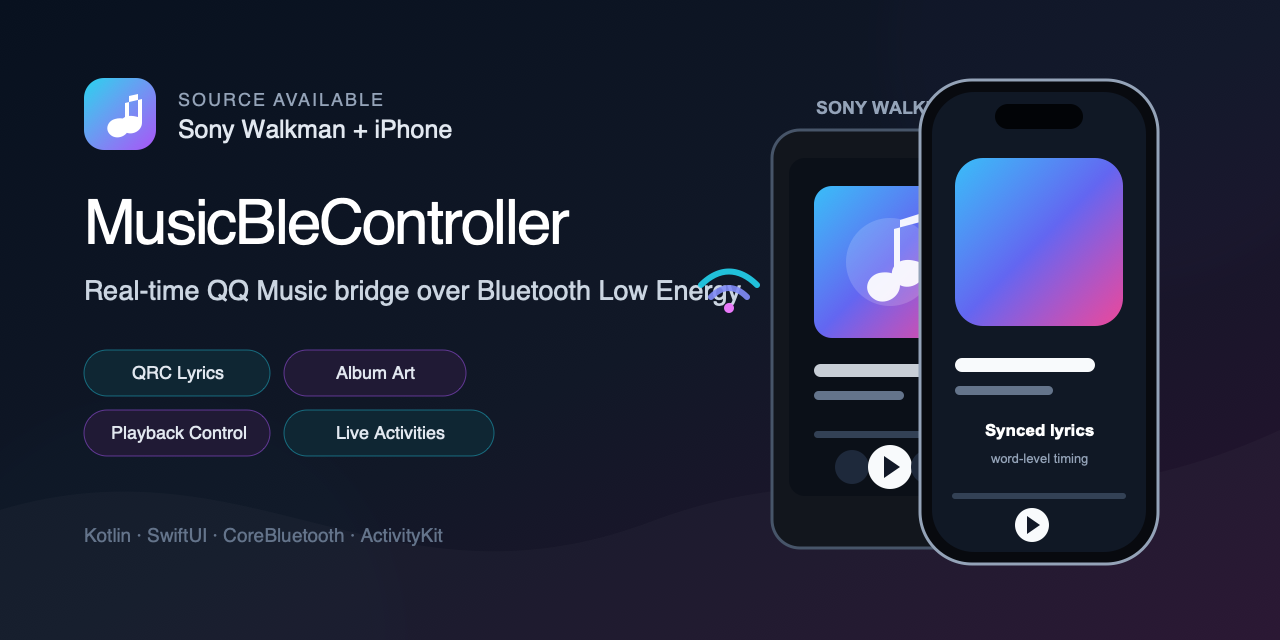
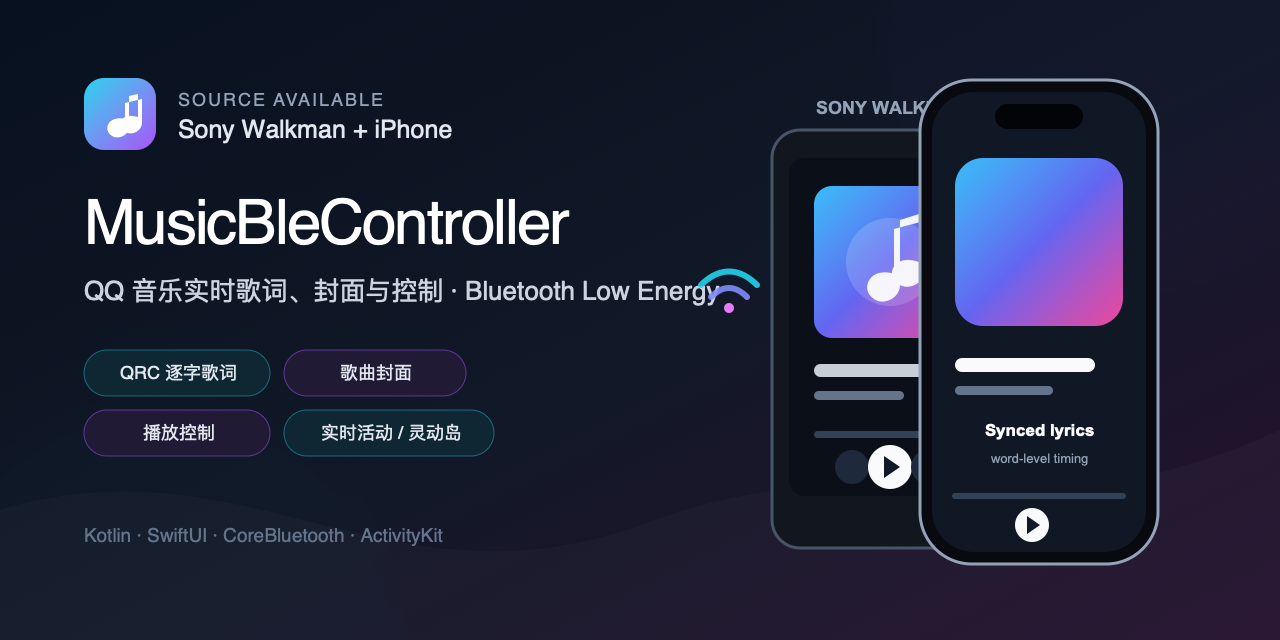
docs: add complete Chinese project guide

diff --git a/README.zh-CN.md b/README.zh-CN.md
@@ -1,0 +1,238 @@
+# MusicBleController
+
+<p align="center">
+  <a href="README.md">English</a> ·
+  <a href="README.zh-CN.md"><strong>简体中文</strong></a>
+</p>
+
+<p align="center">
+  <strong>让 iPhone 实时获取 Sony Android Walkman 上的 QQ 音乐歌词、封面和播放状态。</strong><br>
+  <strong>一个不依赖云端中转的 Sony 播放器 × iPhone 蓝牙音乐伴侣。</strong>
+</p>
+
+<p align="center">
+  <img alt="iOS 18+" src="https://img.shields.io/badge/iOS-18%2B-000000?logo=apple">
+  <img alt="Android 6+" src="https://img.shields.io/badge/Android-6%2B-3DDC84?logo=android&logoColor=white">
+  <img alt="SwiftUI" src="https://img.shields.io/badge/SwiftUI-ActivityKit-F05138?logo=swift&logoColor=white">
+  <img alt="Kotlin" src="https://img.shields.io/badge/Kotlin-BLE-7F52FF?logo=kotlin&logoColor=white">
+</p>
+
+MusicBleController 是一个面向 Sony Android Walkman 和 iPhone 的 QQ 音乐
+状态同步与远程控制项目。运行在 Sony 播放器上的轻量 Android 服务负责读取
+QQ 音乐的 MediaSession、通知封面和本地 QRC 歌词，再通过低功耗蓝牙（BLE）
+传输到原生 SwiftUI iPhone App。iPhone 可以显示逐字歌词、歌曲封面和播放进度，
+也可以控制播放、切歌、进度和音量，并在锁屏实时活动与灵动岛中展示当前歌曲。
+
+> [!IMPORTANT]
+> 当前版本只支持 **Android 版 QQ 音乐**，不支持 Apple Music、Spotify、网易云音乐
+> 或其他播放器。本项目是非官方社区项目，与 Sony、Apple、腾讯或 QQ 音乐没有隶属、
+> 授权或合作关系。
+
+> [!NOTE]
+> 项目代码目前可公开查看，但仓库所有者尚未选择项目级许可证。在许可证明确之前，
+> 请不要假定代码具备自由复制、修改或再分发授权。
+
+## 界面预览
+
+<p align="center">
+  <img src="docs/assets/ios_main_player_ui_from_code.svg" width="720" alt="MusicBleController iPhone 主播放器界面">
+</p>
+
+<details>
+  <summary>查看更多 iOS 设置、诊断和 Sony 端界面</summary>
+  <p align="center">
+    <img src="docs/assets/ios_preferences_diagnostics_ui_from_code.svg" width="720" alt="iOS 设置与诊断界面">
+    <img src="docs/assets/sony_playeragent_debug_ui_from_code.svg" width="720" alt="Sony PlayerAgent 调试界面">
+  </p>
+</details>
+
+## 为什么做这个项目？
+
+Sony 的 Android Walkman 可以安装 QQ 音乐，但它的播放状态、QRC 逐字歌词和封面
+无法自然同步到 iPhone。本项目让两台设备在附近直接通信，不需要搭建服务器，也不需要
+把播放信息上传到第三方云端。
+
+项目重点不只是“能够连接”，还包括在 Sony 播放器性能有限、BLE 带宽较低的情况下，
+尽可能及时和稳定地展示当前歌曲：
+
+- **QQ 音乐逐字歌词**：解析本地加密 QRC 歌词，支持逐字时间、翻译和罗马音数据；
+- **快速封面显示**：优先发送小型预览图，再在后台升级高清封面；
+- **完整播放控制**：支持播放、暂停、上一首、下一首、进度和音量；
+- **原生 iPhone 体验**：使用 SwiftUI、ActivityKit、锁屏实时活动和灵动岛；
+- **弱性能设备优化**：使用可抢占 BLE 队列、压缩歌词、索引缓存和分级封面；
+- **兼容与恢复**：支持新旧协议协商、健康探测、有限重试和自动重连；
+- **可诊断与可测试**：两端均提供诊断日志，并包含 Android、iOS 和跨端冒烟测试。
+
+## 工作原理
+
+```mermaid
+flowchart LR
+    QQ["Sony Walkman 上的 QQ 音乐"] --> Agent["PlayerAgent · Kotlin"]
+    Agent -->|"BLE · 歌词 / 封面 / 播放状态"| iOS["iPhone App · SwiftUI"]
+    iOS -->|"BLE · 播放 / 进度 / 音量控制"| Agent
+    iOS --> Live["锁屏实时活动 / 灵动岛"]
+```
+
+Sony 端是播放状态、歌词和封面的权威数据源，iPhone 端是控制、缓存和展示端：
+
+1. Sony `PlayerAgentApp` 启动 BLE GATT Server，并监听 QQ 音乐状态与本地 QRC 文件；
+2. iPhone `BLETestManager` 扫描并连接 `SonyPlayerAgent`；
+3. iPhone 通过命令特征发送 JSON 控制命令；
+4. Sony 通过状态特征返回播放状态、歌词窗口、完整歌词和二进制封面分包；
+5. iPhone 合并传输结果，更新播放器、歌词、缓存和 Live Activity。
+
+固定 BLE UUID、已有控制命令和旧协议兼容路径会被保留，新功能只在双方确认能力后启用。
+
+## 歌词、封面与连接性能
+
+### 歌词
+
+- 当前行附近的歌词窗口优先返回，用于快速构建 iPhone 歌词界面；
+- 完整歌词在后台传输，并支持 zlib 压缩、CRC 校验和缺包重试；
+- Sony 端使用版本化 QRC 解析索引，避免每首歌都扫描和解析大型缓存目录；
+- 切歌时通过 `trackId`、generation 和 transferId 阻止旧歌曲结果覆盖新歌曲；
+- 当前词根据下一词或下一行边界调度，暂停时停止无意义轮询。
+
+### 封面
+
+- 小尺寸 preview 具有较高优先级，高清 HQ 封面在空闲时后台升级；
+- iPhone 使用 stale-while-revalidate 策略，可信缓存可以先显示再后台复验；
+- Sony 端缓存已经编码的 JPEG，减少慢设备上的重复压缩；
+- 分包传输包含歌曲身份、传输代次和 CRC 校验，避免串歌或残缺图片覆盖当前封面。
+
+### 蓝牙与重连
+
+- 控制响应、播放状态和当前词可以抢占完整歌词、高清封面等大任务；
+- 播放中和暂停中采用不同的静默探测周期，避免正常状态下频繁重连；
+- 新协议使用轻量 PING/PONG，旧 Sony 版本自动回退到原有状态请求；
+- 连续探测失败后才执行硬重连，明确断开事件仍会立即处理。
+
+## 兼容性
+
+| 组件 | 当前要求 |
+|---|---|
+| 音乐来源 | Android 版 QQ 音乐 |
+| Sony 端 | Android 6.0+；已在 Sony NW-WM1AM2（Android 11）验证 |
+| iPhone 端 | iOS 18.0+，需要开启蓝牙 |
+| Android 开发 | Android Studio、JDK 和 Android SDK |
+| iOS 开发 | Xcode、Apple Development Team 和实体 iPhone |
+
+其他基于 Android 的 Sony Walkman 机型可能可以运行，但不同地区固件、Android 版本、
+蓝牙芯片和 QQ 音乐版本可能影响结果。欢迎使用仓库的“设备兼容性报告”Issue 表单反馈。
+
+## 安装与使用
+
+### 1. 安装 Sony 端 PlayerAgent
+
+可以从 [v0.1.0 Preview](https://github.com/a3384379/MusicBleController/releases/tag/v0.1.0)
+下载用于体验的 Android APK，也可以自行构建：
+
+```bash
+git clone https://github.com/a3384379/MusicBleController.git
+cd MusicBleController
+bash gradlew :PlayerAgentApp:assembleDebug
+```
+
+自行构建的 APK 位于：
+
+```text
+PlayerAgentApp/build/outputs/apk/debug/PlayerAgentApp-debug.apk
+```
+
+预发布 APK 使用 Release 源集构建，但采用开发证书签名，仅适合测试。如果设备上已有
+其他证书签名的同包名应用，Android 可能要求先卸载旧版本；卸载会清除该应用的本地数据。
+
+安装后请在 Sony 播放器上完成以下授权：
+
+1. 允许蓝牙相关权限；
+2. 授予通知读取权限，用于获取 QQ 音乐状态和通知封面；
+3. 启用 QQ Music Lyric Detector 辅助功能服务；
+4. 按系统版本授予歌词缓存所需的存储访问权限；
+5. 打开 Player Agent，并确认前台服务和 BLE 广播已经运行。
+
+### 2. 构建 iPhone App
+
+由于 Apple 签名与设备、团队绑定，Release 页面不提供通用 IPA。请自行构建：
+
+1. 使用 Xcode 打开 `IOSBleFeasibility/IOSBleFeasibility.xcodeproj`；
+2. 为主 App 和 Live Activity Extension 选择自己的 Apple Development Team；
+3. 将示例 Bundle Identifier 和 App Group 替换为自己团队拥有的标识；
+4. 在支持 iOS 18 或更高版本的实体 iPhone 上构建安装；
+5. 首次启动时允许蓝牙权限。
+
+iOS 模拟器无法验证真实的 BLE 媒体传输链路。
+
+### 3. 连接与播放
+
+1. 在 Sony 播放器上启动 Player Agent；
+2. 打开 QQ 音乐并播放一首歌曲；
+3. 在 iPhone App 中搜索并连接 `SonyPlayerAgent`；
+4. 连接成功后等待当前歌曲、歌词窗口和预览封面同步；
+5. 如果 QQ 音乐尚未生成本地歌词，可先在 QQ 音乐中打开一次歌词页面。
+
+## 常见问题
+
+| 现象 | 优先检查 |
+|---|---|
+| 已连接但没有歌词 | 确认歌曲在 QQ 音乐中确实有歌词，并打开过歌词页面；检查辅助功能与存储权限 |
+| 歌词出现很慢 | 查看 Sony 端 QRC watcher、缓存索引和当前歌曲匹配日志，确认 QQ 音乐已经生成 QRC 文件 |
+| iPhone 没有封面 | 检查 Sony 的通知读取权限和 QQ 音乐通知是否包含大图；切歌后观察 preview/HQ 诊断 |
+| Sony 有封面但 iPhone 没有 | 查看 AlbumArt offer、binary start/end、CRC 和 trackId 日志，确认没有旧传输被取消 |
+| iPhone 频繁重连 | 确认 Player Agent 前台服务仍运行、Sony 蓝牙未被系统关闭，并查看健康探测失败原因 |
+| 快速切歌后显示旧内容 | 建议两端都升级到最新版本，重新连接并收集带 generation/transferId 的诊断日志 |
+
+提交问题前请删除日志中的账号、设备标识和无关个人数据。安全问题不要创建公开 Issue，
+请遵循[安全政策](SECURITY.md)使用 GitHub 私密漏洞报告。
+
+## 项目结构
+
+| 路径 | 用途 |
+|---|---|
+| `PlayerAgentApp/` | Sony/Android 媒体代理与 BLE GATT Server |
+| `IOSBleFeasibility/` | 原生 iPhone App 与 Live Activity Extension |
+| `ControllerApp/` | 为兼容保留的旧 Android Controller，不属于当前主链路 |
+| `docs/` | BLE、歌词、封面、重连和总体架构文档 |
+| `tools/` | iOS、Android、跨端和长时间播放冒烟测试 |
+
+进一步阅读：
+
+- [项目总览](docs/PROJECT_OVERVIEW.md)
+- [完整业务流程与架构设计](docs/MusicBleController_业务流程与架构设计.md)
+- [BLE 协议](docs/BLE_PROTOCOL.md)
+- [歌词架构](docs/LYRICS_ARCHITECTURE.md)
+- [封面架构](docs/ALBUM_ART_ARCHITECTURE.md)
+- [重连与健康检查](docs/RECONNECT_HEALTH_ARCHITECTURE.md)
+- [冒烟测试指南](docs/SMOKE_TEST_GUIDE.md)
+
+## 测试与验证
+
+```bash
+# Android 单元测试与 Debug 构建
+bash gradlew :PlayerAgentApp:testDebugUnitTest :PlayerAgentApp:assembleDebug
+
+# 已安装设备的快速跨端冒烟测试
+./tools/smoke/run_all_smoke_tests.sh --quick --json
+```
+
+仓库还包含歌词延迟、封面长时间播放、控制、重连和 currentWord 时序测试。真实设备测试
+可能会控制当前播放器或读取设备日志，运行前请先阅读
+[Smoke 工具说明](tools/smoke/README.md)。
+
+## 项目状态与参与贡献
+
+这是一个持续开发中的设备型项目，不是已经上架 App Store 的成品。安装目前仍需要
+Android 侧载和 Xcode 签名经验。欢迎反馈：
+
+- 其他 Sony Android Walkman 型号与地区固件的兼容结果；
+- 可以稳定复现的 BLE 延迟、断连或重连日志；
+- QQ 音乐 QRC 歌词、逐字时间或封面异常样本；
+- 中文安装文档、截图、翻译和新手体验改进。
+
+请先阅读[贡献指南](CONTRIBUTING.md)，并使用对应的 Issue 表单。若项目对你有帮助，
+欢迎为仓库点一个 Star，让更多 Sony Walkman 和 iPhone 用户找到它。
+
+## 致谢与授权状态
+
+QRC 解密实现包含从其他开源项目衍生的工作，具体来源和原许可证见
+[THIRD_PARTY_NOTICES.md](THIRD_PARTY_NOTICES.md)。仓库所有者尚未选择覆盖整个项目的
+许可证，因此当前项目应视为“代码公开可查看”，而不是已经授予通用开源使用许可。

diff --git a/README.md b/README.md
@@ -1,6 +1,11 @@
 # MusicBleController
 
 <p align="center">
+  <a href="README.md"><strong>English</strong></a> ·
+  <a href="README.zh-CN.md">简体中文</a>
+</p>
+
+<p align="center">
   <strong>Turn a Sony Android Walkman into a Bluetooth music bridge for iPhone.</strong><br>
   <strong>让 iPhone 实时获取 Sony Android 播放器上的 QQ 音乐歌词、封面和播放状态。</strong>
 </p>
@@ -22,6 +27,22 @@ lyrics, artwork caching, Dynamic Island and Live Activities.
 > The current implementation supports **QQ Music on Android only**. It is an
 > unofficial community project and is not affiliated with Sony, Apple, Tencent
 > or QQ Music.
+
+## 中文简介
+
+MusicBleController 是面向 **Sony Android Walkman 与 iPhone** 的 QQ 音乐
+BLE 伴侣项目。Sony 端读取 QQ 音乐的播放状态、本地 QRC 逐字歌词和通知封面，
+再通过低功耗蓝牙实时同步到 iPhone；iPhone 端负责播放器界面、歌词高亮、封面缓存、
+播放控制、锁屏实时活动和灵动岛展示，全程不依赖云端中转服务。
+
+- 支持 QQ 音乐 QRC 逐字歌词、翻译和罗马音数据；
+- 支持预览封面优先传输、高清封面后台升级和缓存复用；
+- 支持播放、暂停、切歌、进度和音量控制；
+- 针对 Sony 播放器性能和 BLE 带宽做了队列抢占、压缩传输、重试和断线恢复优化。
+
+当前仅支持 Android 版 QQ 音乐，需要自行安装 Sony 端应用，并使用自己的 Apple
+开发者签名构建 iOS App。安装、权限、兼容性、排障和开发说明请阅读
+[完整简体中文文档](README.zh-CN.md)。
 
 ## Preview
 
@@ -163,13 +184,3 @@ helps other Sony Walkman and iPhone users discover the project.
 
 The QRC decryption implementation includes work derived from open-source
 projects credited in [THIRD_PARTY_NOTICES.md](THIRD_PARTY_NOTICES.md).
-
-## 中文简介
-
-MusicBleController 用 BLE 将 Sony Android Walkman 上的 QQ 音乐与 iPhone
-连接起来，提供歌词同步、逐字高亮、封面传输、播放控制、灵动岛和
-实时活动。Sony 端负责读取 QQ 音乐 MediaSession、通知封面与本地 QRC
-缓存，iPhone 端负责展示、缓存和控制，全程不需要云服务。
-
-当前仅支持 Android 版 QQ 音乐，需要自行编译并签名 iOS App。欢迎通过
-Issues 反馈其他 Walkman 机型的兼容情况、歌词或封面样本以及 BLE 性能数据。
